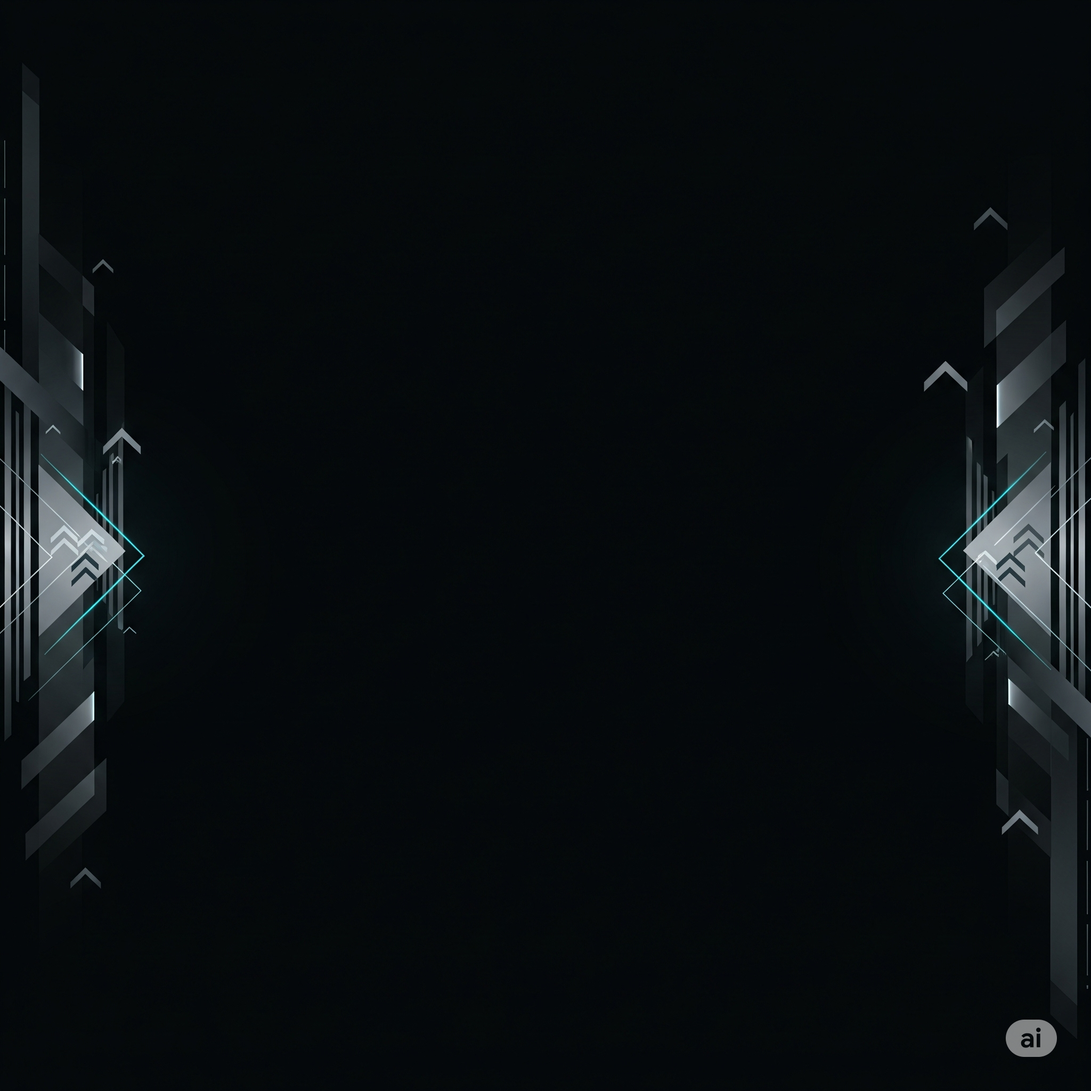
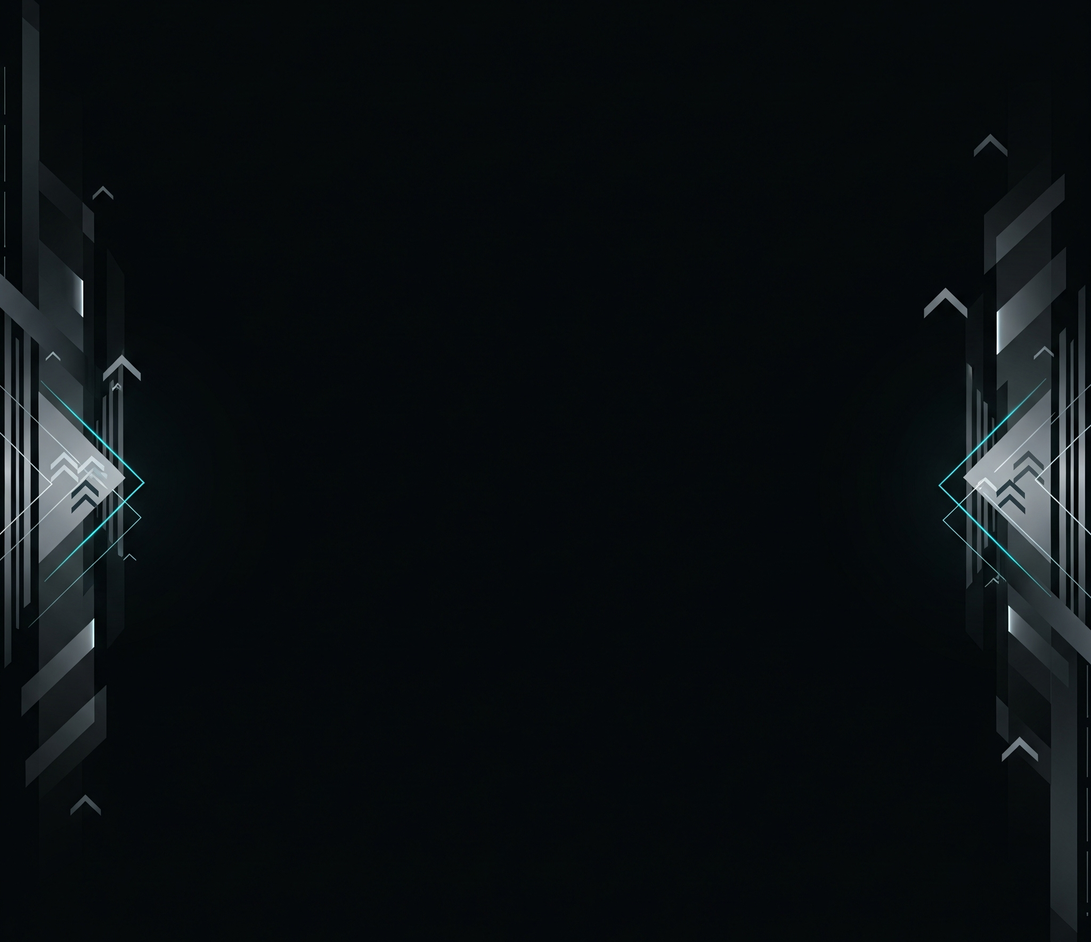
background and neon border

diff --git a/frontend/src/showexpense.css b/frontend/src/showexpense.css
@@ -1,7 +1,7 @@
 .fullcontain {
   background-image: url('./assets/bckgr.png');
-  background-size: cover;
-  background-repeat: no-repeat;
+  background-size: contain;
+  background-repeat: repeat;
   background-position: center;
   min-height: 100vh;
   width: 100%;
@@ -24,6 +24,7 @@
     padding : 8px;
     padding-bottom: 35px;
     position: relative;
+    box-shadow: 0 0 15px #0ff;
 }
 
 
@@ -38,6 +39,7 @@
     
     background: transparent;
     border: 2px solid hsl(204, 3%, 33%);
+    
     border-radius: 5px;
     
     padding : 8px;
@@ -63,7 +65,8 @@
 }
 
 .amount{
-    justify-items: right;
+    display: flex;
+    justify-content: right;
 }
 .expenses {
     display: flex;
@@ -77,6 +80,7 @@
     border : rgb(189, 189, 189) solid 1px;
     padding: 10px;
     margin: 1px;
+    margin-bottom: 5px;
     
     border-radius: 5px;
 }
@@ -117,6 +121,7 @@
 }
 
 .spend{
+
     justify-self: right;
 }
 .savings {

diff --git a/frontend/src/delete.css b/frontend/src/delete.css
@@ -5,15 +5,16 @@
   background-position: center;
   
             
-  margin: 0;
+  
     display: flex;
     flex-direction: column;
     align-items: center;
     width: 50%;
-    margin : 20px auto ;
+    margin : 70px auto ;
     background-color: #ffffff00;
     border: 2px solid hsl(204, 3%, 33%);
     border-radius: 5px;
+    box-shadow: 0 0 20px rgb(252, 252, 252);
     height: 100%;
     margin-bottom: 5px ;
     color: aliceblue;

diff --git a/frontend/src/searchexpense.css b/frontend/src/searchexpense.css
@@ -1,12 +1,3 @@
 .fullcontain{
-    background-image: url('./assets/bckgr.png'); 
-    background-size: cover;      
-    background-repeat: no-repeat;
-    background-position: center;
-    min-height: 100vh;
-    min-width: 100vw;  
-}
-.expenses{
-    color:aliceblue;
-    background-color: transparent;
+    
 }

diff --git a/frontend/src/searchexpense.jsx b/frontend/src/searchexpense.jsx
@@ -2,6 +2,7 @@ import { useSearchParams } from "react-router-dom";
 import {useState,useEffect} from 'react';
 import {fetchdata,searchrenndering} from './datarender';
 import Load from './loadanimation';
+import './searchexpense.css' 
 
 function SearchPage() {
   const [searchParams] = useSearchParams();
